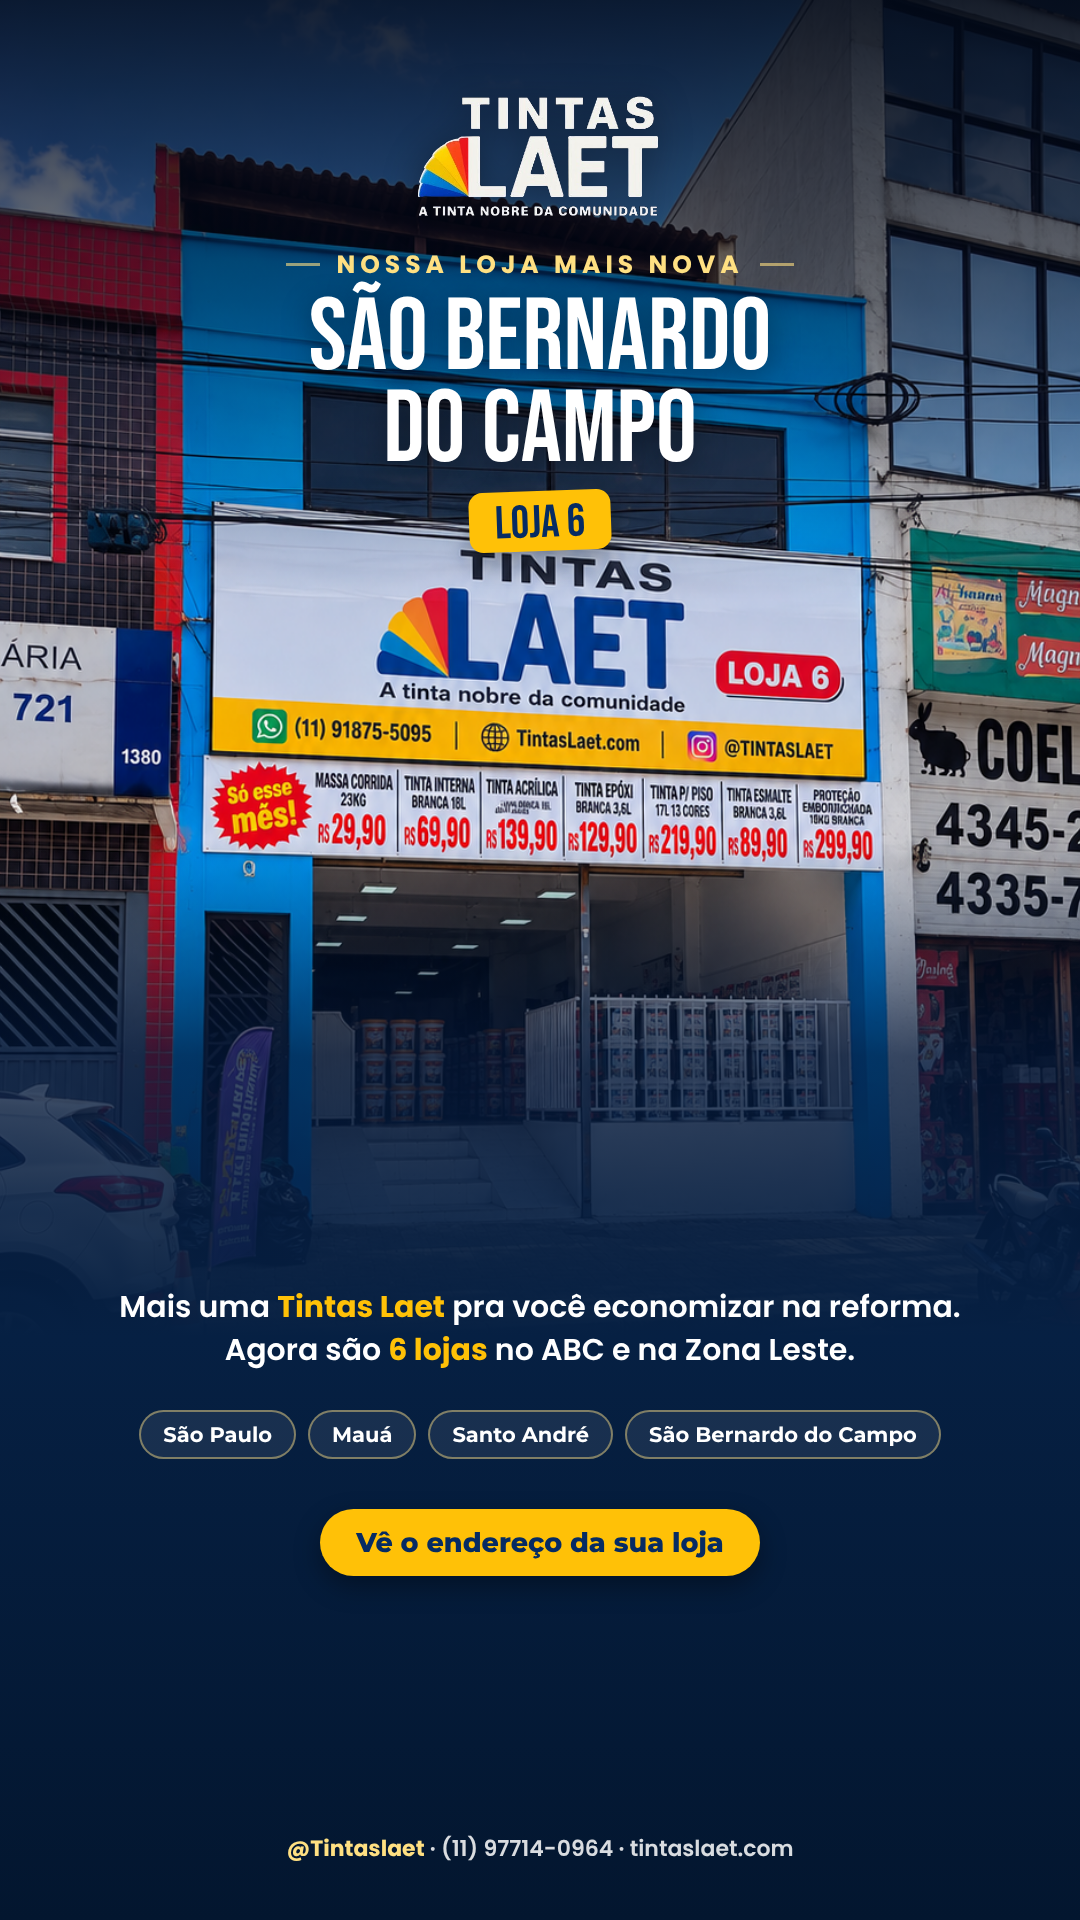
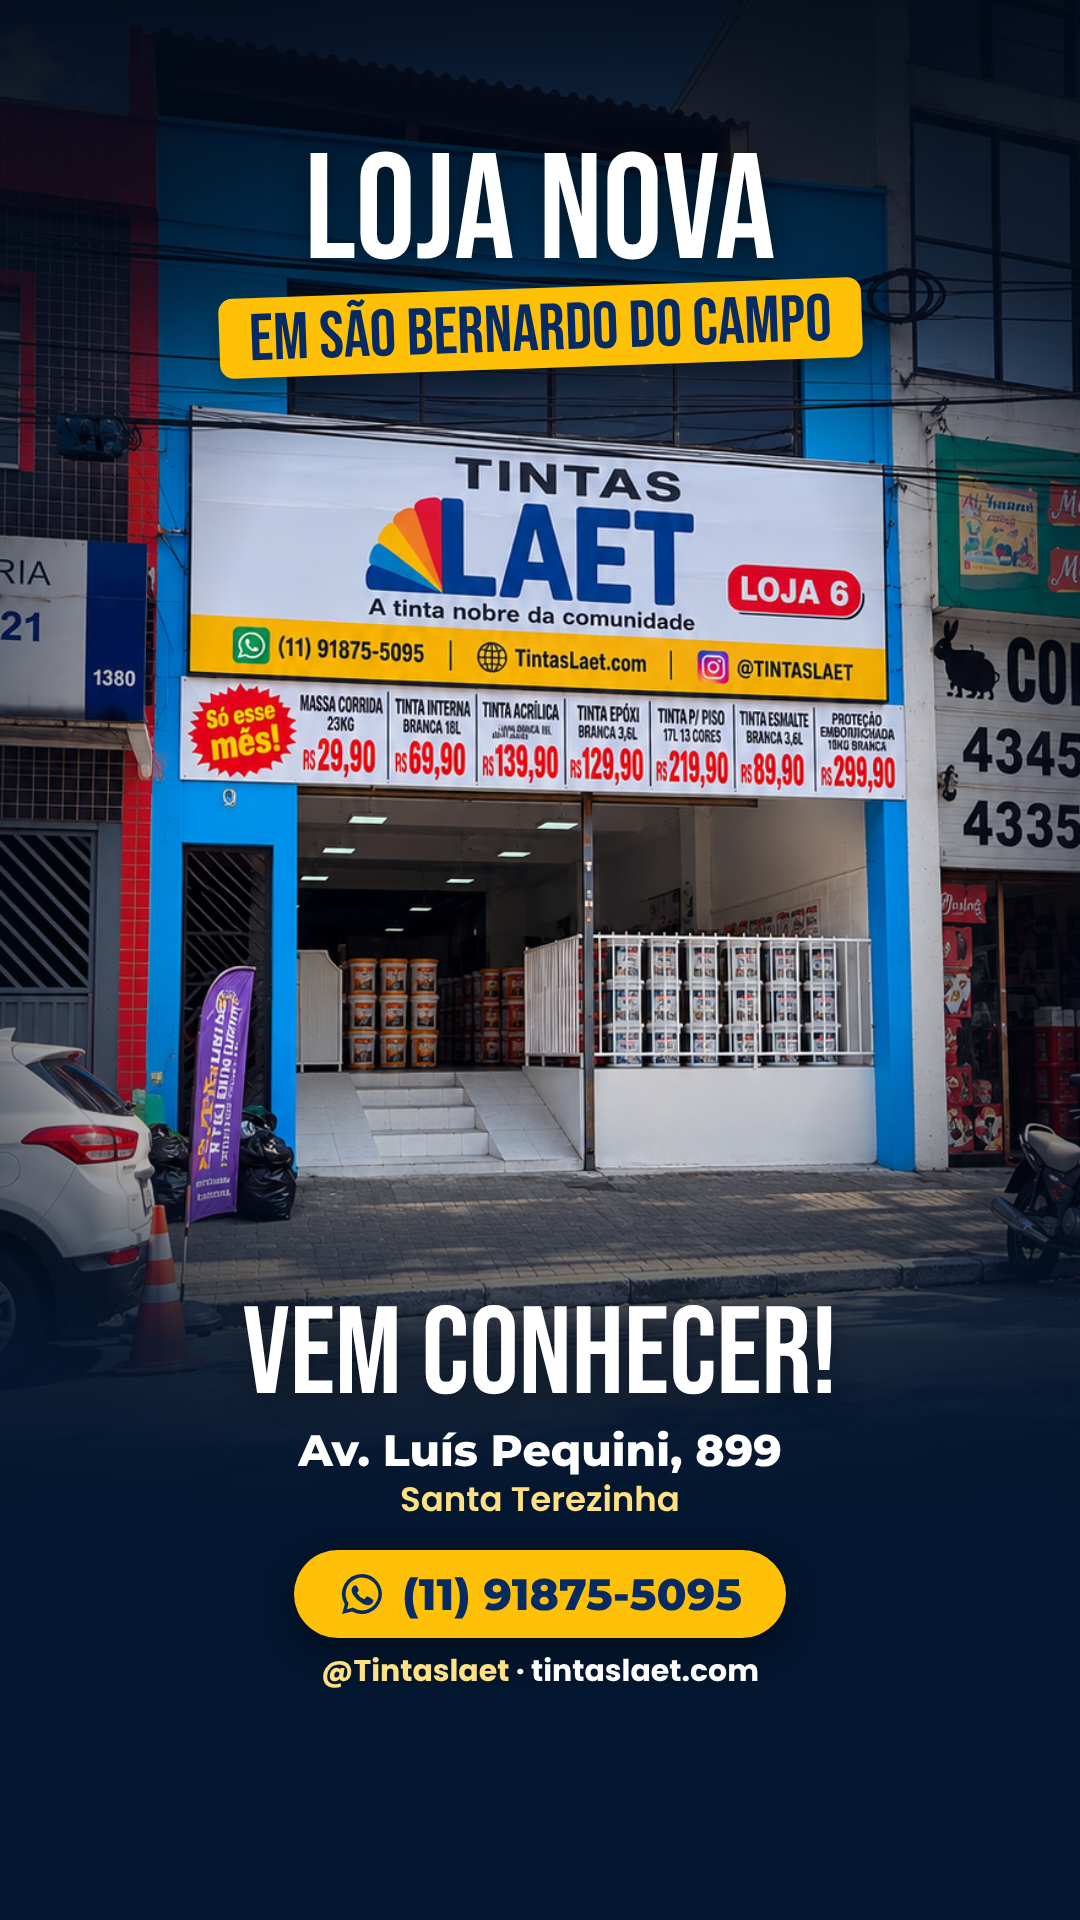
Refaz os 3 stories: menos elementos, texto grande, foco em venda
- Quem somos: "Preço abaixo do mercado e 12x sem juros*" sobre a foto da equipe
- Produto: troca o guia de 4 linhas por um só herói — Emborrachada
  ("Chega de infiltração", resolve até 100% na laje, telhado e muro)
- Loja 6: "Loja nova em São Bernardo do Campo" + endereço, com o
  WhatsApp da própria loja (regra do CTA pra peça de loja específica)
- CTA vira botão grande com o WhatsApp + @Tintaslaet e site embaixo,
  tudo dentro da área segura do story (fora da barra de resposta)

Claude-Session: https://claude.ai/code/session_01SY9PCVFHwTAXLNRiFEi1A7

diff --git a/marketing/stories/2026-10/16-nossas-lojas/story.html b/marketing/stories/2026-10/16-nossas-lojas/story.html
@@ -3,7 +3,7 @@
 <head>
 <meta charset="UTF-8">
 <meta name="viewport" content="width=1080">
-<title>Tintas Laet — Nossas lojas</title>
+<title>Tintas Laet — Loja nova em São Bernardo do Campo</title>
 <style>
 @font-face { font-family:'Bebas Neue'; font-weight:400; src:url('fonts/bebas-neue-latin-400-normal.woff2') format('woff2'); }
 @font-face { font-family:'Montserrat'; font-weight:700; src:url('fonts/montserrat-latin-700-normal.woff2') format('woff2'); }
@@ -15,62 +15,49 @@
 body { background:#020A18; }
 .slide { width:1080px; height:1920px; position:relative; overflow:hidden; color:#fff; }
 
-.foto { position:absolute; inset:0; z-index:0; background:url('../../../../marketing/imagem das lojas/loja6 fachada.png') center 30% / cover no-repeat; }
-.scrim-top { position:absolute; top:0; left:0; right:0; height:600px; z-index:1;
-  background:linear-gradient(180deg, rgba(2,10,24,.88) 0%, rgba(2,10,24,.5) 50%, rgba(2,10,24,0) 100%); }
-.scrim-bot { position:absolute; bottom:0; left:0; right:0; height:1080px; z-index:1;
-  background:linear-gradient(180deg, rgba(2,10,24,0) 0%, rgba(3,24,58,.75) 20%, #062043 46%, #03162f 100%); }
+.foto { position:absolute; inset:0; z-index:0; background:url('../../../../marketing/imagem das lojas/loja6 fachada.png') center -130px / auto 2050px no-repeat; }
+.vinheta { position:absolute; inset:0; z-index:1;
+  background:radial-gradient(ellipse 620px 900px at 50% 42%, rgba(2,10,24,0) 55%, rgba(2,10,24,.6) 100%); }
+.scrim-top { position:absolute; top:0; left:0; right:0; height:470px; z-index:1;
+  background:linear-gradient(180deg, rgba(2,10,24,.9) 0%, rgba(2,10,24,.65) 60%, rgba(2,10,24,0) 100%); }
+.scrim-bot { position:absolute; bottom:0; left:0; right:0; height:760px; z-index:1;
+  background:linear-gradient(180deg, rgba(3,22,47,0) 0%, rgba(3,22,47,.85) 24%, #03162f 46%, #03162f 100%); }
 
-.top { position:absolute; top:96px; left:0; right:0; z-index:10; display:flex; flex-direction:column; align-items:center; text-align:center; }
-.top img { height:260px; margin:-64px 0 -44px; object-fit:contain; filter:drop-shadow(0 4px 18px rgba(0,0,0,.4)); }
-.ey { font:700 25px/1 'Poppins',sans-serif; color:#FFE082; letter-spacing:.2em; text-transform:uppercase; display:flex; align-items:center; gap:16px; margin-top:4px; text-align:center; }
-.ey::before,.ey::after { content:''; width:34px; height:3px; background:rgba(255,224,130,.6); display:block; }
-.num { font:400 102px/.9 'Bebas Neue',sans-serif; color:#fff; margin-top:16px; text-shadow:0 8px 30px rgba(0,0,0,.4); text-align:center; padding:0 40px; }
-.chip { display:inline-flex; margin-top:14px; background:#FFC107; color:#062B63; font:400 46px/1 'Bebas Neue',sans-serif;
-  padding:10px 26px 4px; border-radius:14px; transform:rotate(-2deg); box-shadow:0 10px 26px rgba(0,0,0,.3); }
+.top { position:absolute; top:150px; left:0; right:0; z-index:10; display:flex; flex-direction:column; align-items:center; text-align:center; }
+.h1 { font:400 150px/.85 'Bebas Neue',sans-serif; color:#fff; text-shadow:0 8px 30px rgba(0,0,0,.5); }
+.chip { margin-top:10px; background:#FFC107; color:#062B63; font:400 66px/1 'Bebas Neue',sans-serif;
+  padding:10px 30px 4px; border-radius:14px; transform:rotate(-2deg); box-shadow:0 10px 26px rgba(0,0,0,.35); }
 
-.corpo { position:absolute; left:0; right:0; bottom:0; top:900px; z-index:10; display:flex; flex-direction:column; align-items:center; justify-content:center; text-align:center; padding:0 72px; }
-.msg { font:600 30px/1.45 'Poppins',sans-serif; margin-top:40px; }
-.msg b { color:#FFC107; font-weight:700; }
-
-.cidades { display:flex; flex-wrap:wrap; justify-content:center; gap:12px; margin-top:38px; }
-.cid { background:rgba(255,255,255,.08); border:2px solid rgba(255,224,130,.45); border-radius:30px; padding:12px 22px;
-  font:700 21px/1 'Montserrat',sans-serif; color:#fff; }
-
-.cta { margin-top:50px; white-space:nowrap; background:#FFC107; color:#062B63; font:800 27px/1 'Montserrat',sans-serif;
-  padding:20px 36px; border-radius:40px; box-shadow:0 10px 26px rgba(0,0,0,.35); }
-.foot { position:absolute; left:0; right:0; bottom:60px; z-index:10; text-align:center;
-  font:600 22px/1 'Poppins',sans-serif; color:rgba(255,255,255,.85); }
-.foot b { color:#FFE082; font-weight:700; }
+.base { position:absolute; left:0; right:0; top:1300px; z-index:10; display:flex; flex-direction:column; align-items:center; text-align:center; }
+.vem { font:400 124px/.9 'Bebas Neue',sans-serif; color:#fff; text-shadow:0 8px 30px rgba(0,0,0,.4); }
+.end { margin-top:14px; font:800 44px/1.1 'Montserrat',sans-serif; color:#fff; }
+.bairro { margin-top:8px; font:600 34px/1 'Poppins',sans-serif; color:#FFE082; }
+.btn { margin-top:34px; display:flex; align-items:center; gap:16px; background:#FFC107; color:#062B63;
+  font:800 44px/1 'Montserrat',sans-serif; padding:20px 44px; border-radius:60px; box-shadow:0 12px 30px rgba(0,0,0,.4); }
+.btn svg { width:48px; height:48px; fill:#062B63; }
+.sub { margin-top:18px; font:700 30px/1 'Poppins',sans-serif; color:#fff; }
+.sub b { color:#FFE082; }
 </style>
 </head>
 <body>
 <div class="slide">
   <div class="foto"></div>
+  <div class="vinheta"></div>
   <div class="scrim-top"></div>
   <div class="scrim-bot"></div>
 
   <div class="top">
-    <img src="../../../../identidade/logotipo branco-remove-bg-io.png" alt="Tintas Laet">
-    <div class="ey">Nossa loja mais nova</div>
-    <div class="num">SÃO BERNARDO<br>DO CAMPO</div>
-    <div class="chip">LOJA 6</div>
+    <div class="h1">LOJA NOVA</div>
+    <div class="chip">EM SÃO BERNARDO DO CAMPO</div>
   </div>
 
-  <div class="corpo">
-    <div class="msg">Mais uma <b>Tintas Laet</b> pra você economizar na reforma.<br>Agora são <b>6 lojas</b> no ABC e na Zona Leste.</div>
-
-    <div class="cidades">
-      <div class="cid">São Paulo</div>
-      <div class="cid">Mauá</div>
-      <div class="cid">Santo André</div>
-      <div class="cid">São Bernardo do Campo</div>
-    </div>
-
-    <div class="cta">Vê o endereço da sua loja</div>
+  <div class="base">
+    <div class="vem">VEM CONHECER!</div>
+    <div class="end">Av. Luís Pequini, 899</div>
+    <div class="bairro">Santa Terezinha</div>
+    <div class="btn"><svg viewBox="0 0 24 24"><path d="M12 2a10 10 0 0 0-8.6 15.1L2 22l5-1.3A10 10 0 1 0 12 2zm0 18.2a8.2 8.2 0 0 1-4.2-1.2l-.3-.2-3 .8.8-2.9-.2-.3A8.2 8.2 0 1 1 12 20.2zm4.5-6.1c-.2-.1-1.5-.7-1.7-.8-.2-.1-.4-.1-.6.1l-.8 1c-.1.2-.3.2-.5.1a6.7 6.7 0 0 1-3.3-2.9c-.2-.4.2-.4.7-1.3.1-.2 0-.3 0-.4l-.8-1.8c-.2-.5-.4-.4-.6-.4h-.5a1 1 0 0 0-.7.3 3 3 0 0 0-.9 2.2 5.1 5.1 0 0 0 1.1 2.7 11.7 11.7 0 0 0 4.5 4c1.7.7 2.3.8 3.2.6a2.7 2.7 0 0 0 1.8-1.3 2.2 2.2 0 0 0 .2-1.3c-.1-.1-.3-.2-.5-.3z"/></svg>(11) 91875-5095</div>
+    <div class="sub"><b>@Tintaslaet</b> · tintaslaet.com</div>
   </div>
-
-  <div class="foot"><b>@Tintaslaet</b> · (11) 97714-0964 · tintaslaet.com</div>
 </div>
 </body>
 </html>

diff --git a/marketing/stories/2026-10/16-quem-somos/story.html b/marketing/stories/2026-10/16-quem-somos/story.html
@@ -15,34 +15,27 @@
 body { background:#020A18; }
 .slide { width:1080px; height:1920px; position:relative; overflow:hidden; color:#fff; }
 
-.foto { position:absolute; inset:0; z-index:0; background:url('../../../../marketing/prova social/equipe tintas laet.jpg') center 18% / cover no-repeat; }
-.scrim-top { position:absolute; top:0; left:0; right:0; height:620px; z-index:1;
-  background:linear-gradient(180deg, rgba(2,10,24,.88) 0%, rgba(2,10,24,.55) 48%, rgba(2,10,24,0) 100%); }
-.scrim-bot { position:absolute; bottom:0; left:0; right:0; height:1180px; z-index:1;
-  background:linear-gradient(180deg, rgba(2,10,24,0) 0%, rgba(3,24,58,.72) 22%, #062043 48%, #03162f 100%); }
+.foto { position:absolute; inset:0; z-index:0; background:url('../../../../marketing/prova social/equipe tintas laet.jpg') center -60px / 1080px auto no-repeat; }
+.scrim-top { position:absolute; top:0; left:0; right:0; height:420px; z-index:1;
+  background:linear-gradient(180deg, rgba(2,10,24,.8) 0%, rgba(2,10,24,.35) 60%, rgba(2,10,24,0) 100%); }
+.scrim-bot { position:absolute; bottom:0; left:0; right:0; height:1060px; z-index:1;
+  background:linear-gradient(180deg, rgba(3,22,47,0) 0%, rgba(3,22,47,.82) 20%, #041d3f 34%, #03162f 100%); }
 
-.top { position:absolute; top:96px; left:0; right:0; z-index:10; display:flex; flex-direction:column; align-items:center; text-align:center; }
-.top img { height:270px; margin:-66px 0 -46px; object-fit:contain; filter:drop-shadow(0 4px 18px rgba(0,0,0,.4)); }
-.ey { font:700 27px/1 'Poppins',sans-serif; color:#FFE082; letter-spacing:.24em; text-transform:uppercase; display:flex; align-items:center; gap:18px; margin-top:4px; }
-.ey::before,.ey::after { content:''; width:44px; height:3px; background:rgba(255,224,130,.6); display:block; }
-.num { font:400 198px/.86 'Bebas Neue',sans-serif; color:#fff; margin-top:18px; text-shadow:0 10px 40px rgba(0,0,0,.4); }
+.logo { position:absolute; top:96px; left:0; right:0; z-index:10; text-align:center; }
+.logo img { height:320px; margin:-80px 0 -60px; object-fit:contain; filter:drop-shadow(0 4px 18px rgba(0,0,0,.45)); }
 
-.corpo { position:absolute; left:0; right:0; bottom:0; top:860px; z-index:10; display:flex; flex-direction:column; align-items:center; justify-content:center; text-align:center; padding:0 80px; }
-.msg { font:600 32px/1.45 'Poppins',sans-serif; margin-top:46px; }
-.msg b { color:#FFC107; font-weight:700; }
+.base { position:absolute; left:0; right:0; top:1068px; z-index:10; display:flex; flex-direction:column; align-items:center; text-align:center; }
+.ey { font:700 31px/1 'Poppins',sans-serif; color:#FFE082; letter-spacing:.14em; text-transform:uppercase; }
+.h1 { font:400 152px/.88 'Bebas Neue',sans-serif; color:#fff; margin-top:22px; text-shadow:0 8px 30px rgba(0,0,0,.4); }
+.chip { margin-top:22px; background:#FFC107; color:#062B63; font:400 84px/1 'Bebas Neue',sans-serif;
+  padding:12px 34px 4px; border-radius:16px; transform:rotate(-2deg); box-shadow:0 10px 30px rgba(0,0,0,.35); }
 
-.fatos { display:flex; gap:16px; margin-top:52px; }
-.fato { background:rgba(255,255,255,.08); border:2px solid rgba(255,224,130,.5); border-radius:16px; padding:20px 22px 14px; flex:1; }
-.fato .n { font:400 54px/.9 'Bebas Neue',sans-serif; color:#FFC107; }
-.fato .l { font:700 19px/1.2 'Montserrat',sans-serif; color:#fff; margin-top:8px; text-transform:uppercase; letter-spacing:.02em; }
-
-.nota { font:600 20px/1.3 'Poppins',sans-serif; color:rgba(255,255,255,.65); margin-top:18px; }
-
-.cta { margin-top:56px; white-space:nowrap; background:#FFC107; color:#062B63; font:800 28px/1 'Montserrat',sans-serif;
-  padding:20px 38px; border-radius:40px; box-shadow:0 10px 26px rgba(0,0,0,.35); }
-.foot { position:absolute; left:0; right:0; bottom:64px; z-index:10; text-align:center;
-  font:600 23px/1 'Poppins',sans-serif; color:rgba(255,255,255,.85); letter-spacing:.01em; }
-.foot b { color:#FFE082; font-weight:700; }
+.btn { margin-top:34px; display:flex; align-items:center; gap:16px; background:#FFC107; color:#062B63;
+  font:800 44px/1 'Montserrat',sans-serif; padding:20px 44px; border-radius:60px; box-shadow:0 12px 30px rgba(0,0,0,.4); }
+.btn svg { width:48px; height:48px; fill:#062B63; }
+.sub { margin-top:18px; font:700 30px/1 'Poppins',sans-serif; color:#fff; }
+.sub b { color:#FFE082; }
+.nota { margin-top:14px; font:600 21px/1 'Poppins',sans-serif; color:rgba(255,255,255,.6); }
 </style>
 </head>
 <body>
@@ -51,26 +44,16 @@ body { background:#020A18; }
   <div class="scrim-top"></div>
   <div class="scrim-bot"></div>
 
-  <div class="top">
-    <img src="../../../../identidade/logotipo branco-remove-bg-io.png" alt="Tintas Laet">
-    <div class="ey">Quem somos</div>
-    <div class="num">LAET</div>
-  </div>
+  <div class="logo"><img src="../../../../identidade/logotipo branco-remove-bg-io.png" alt="Tintas Laet"></div>
 
-  <div class="corpo">
-    <div class="msg">Negócio de família, tocado por <b>Anderson e Robson Laet</b>.<br>6 lojas no ABC e na Zona Leste de São Paulo, pra quem quer economizar na reforma de verdade.</div>
-
-    <div class="fatos">
-      <div class="fato"><div class="n">6</div><div class="l">Lojas</div></div>
-      <div class="fato"><div class="n">12x</div><div class="l">Sem juros*</div></div>
-      <div class="fato"><div class="n">↓</div><div class="l">Preço de<br>mercado</div></div>
-    </div>
+  <div class="base">
+    <div class="ey">6 lojas no ABC e Zona Leste</div>
+    <div class="h1">PREÇO ABAIXO<br>DO MERCADO</div>
+    <div class="chip">E 12X SEM JUROS*</div>
+    <div class="btn"><svg viewBox="0 0 24 24"><path d="M12 2a10 10 0 0 0-8.6 15.1L2 22l5-1.3A10 10 0 1 0 12 2zm0 18.2a8.2 8.2 0 0 1-4.2-1.2l-.3-.2-3 .8.8-2.9-.2-.3A8.2 8.2 0 1 1 12 20.2zm4.5-6.1c-.2-.1-1.5-.7-1.7-.8-.2-.1-.4-.1-.6.1l-.8 1c-.1.2-.3.2-.5.1a6.7 6.7 0 0 1-3.3-2.9c-.2-.4.2-.4.7-1.3.1-.2 0-.3 0-.4l-.8-1.8c-.2-.5-.4-.4-.6-.4h-.5a1 1 0 0 0-.7.3 3 3 0 0 0-.9 2.2 5.1 5.1 0 0 0 1.1 2.7 11.7 11.7 0 0 0 4.5 4c1.7.7 2.3.8 3.2.6a2.7 2.7 0 0 0 1.8-1.3 2.2 2.2 0 0 0 .2-1.3c-.1-.1-.3-.2-.5-.3z"/></svg>(11) 97714-0964</div>
+    <div class="sub"><b>@Tintaslaet</b> · tintaslaet.com</div>
     <div class="nota">*consulte as condições</div>
-
-    <div class="cta">Vem conhecer a Laet</div>
   </div>
-
-  <div class="foot"><b>@Tintaslaet</b> · (11) 97714-0964 · tintaslaet.com</div>
 </div>
 </body>
 </html>

diff --git a/marketing/stories/2026-10/16-emborrachada/story.html b/marketing/stories/2026-10/16-emborrachada/story.html
@@ -1,0 +1,68 @@
+<!DOCTYPE html>
+<html lang="pt-BR">
+<head>
+<meta charset="UTF-8">
+<meta name="viewport" content="width=1080">
+<title>Tintas Laet — Chega de infiltração</title>
+<style>
+@font-face { font-family:'Bebas Neue'; font-weight:400; src:url('fonts/bebas-neue-latin-400-normal.woff2') format('woff2'); }
+@font-face { font-family:'Montserrat'; font-weight:700; src:url('fonts/montserrat-latin-700-normal.woff2') format('woff2'); }
+@font-face { font-family:'Montserrat'; font-weight:800; src:url('fonts/montserrat-latin-800-normal.woff2') format('woff2'); }
+@font-face { font-family:'Poppins'; font-weight:600; src:url('fonts/poppins-latin-600-normal.woff2') format('woff2'); }
+@font-face { font-family:'Poppins'; font-weight:700; src:url('fonts/poppins-latin-700-normal.woff2') format('woff2'); }
+
+*, *::before, *::after { margin:0; padding:0; box-sizing:border-box; }
+body { background:#020A18; }
+.slide { width:1080px; height:1920px; position:relative; overflow:hidden; color:#fff;
+  background:
+    radial-gradient(ellipse 900px 620px at 50% 22%, rgba(33,110,230,.55) 0%, rgba(13,71,161,0) 70%),
+    linear-gradient(180deg, #0D47A1 0%, #0A3A86 36%, #062B63 68%, #03183A 100%); }
+.chuva { position:absolute; inset:0; z-index:1; opacity:.5;
+  background-image: repeating-linear-gradient(104deg, rgba(255,255,255,.10) 0 2px, transparent 2px 38px);
+  -webkit-mask-image: linear-gradient(180deg, #000 0%, rgba(0,0,0,.4) 40%, transparent 70%);
+          mask-image: linear-gradient(180deg, #000 0%, rgba(0,0,0,.4) 40%, transparent 70%); }
+
+.top { position:absolute; top:150px; left:0; right:0; z-index:10; display:flex; flex-direction:column; align-items:center; text-align:center; }
+.top img { height:300px; margin:-74px 0 -55px; object-fit:contain; filter:drop-shadow(0 4px 18px rgba(0,0,0,.35)); }
+.ey { font:700 34px/1 'Poppins',sans-serif; color:#FFE082; letter-spacing:.12em; text-transform:uppercase; margin-top:14px; }
+.h1 { font:400 196px/.85 'Bebas Neue',sans-serif; color:#fff; margin-top:16px; text-shadow:0 10px 40px rgba(0,0,0,.35); }
+.chip { margin-top:6px; background:#FFC107; color:#062B63; font:400 124px/1 'Bebas Neue',sans-serif;
+  padding:14px 36px 4px; border-radius:18px; transform:rotate(-2deg); box-shadow:0 12px 32px rgba(0,0,0,.35); }
+
+.lata { position:absolute; left:50%; top:748px; transform:translateX(-50%); z-index:6; height:640px; filter:drop-shadow(0 26px 34px rgba(0,0,0,.55)); }
+.glow { position:absolute; left:50%; top:1068px; width:800px; height:800px; transform:translate(-50%,-50%); z-index:5; border-radius:50%;
+  background:radial-gradient(circle, rgba(255,193,7,.30) 0%, rgba(255,193,7,0) 65%); }
+
+.base { position:absolute; left:0; right:0; top:1416px; z-index:10; display:flex; flex-direction:column; align-items:center; text-align:center; }
+.nm { font:800 56px/1 'Montserrat',sans-serif; color:#fff; }
+.ds { font:600 36px/1.25 'Poppins',sans-serif; color:#FFE082; margin-top:12px; }
+.btn { margin-top:34px; display:flex; align-items:center; gap:16px; background:#FFC107; color:#062B63;
+  font:800 44px/1 'Montserrat',sans-serif; padding:20px 44px; border-radius:60px; box-shadow:0 12px 30px rgba(0,0,0,.4); }
+.btn svg { width:48px; height:48px; fill:#062B63; }
+.sub { margin-top:18px; font:700 30px/1 'Poppins',sans-serif; color:#fff; }
+.sub b { color:#FFE082; }
+</style>
+</head>
+<body>
+<div class="slide">
+  <div class="chuva"></div>
+
+  <div class="top">
+    <img src="../../../../identidade/logotipo branco-remove-bg-io.png" alt="Tintas Laet">
+    <div class="ey">Chuva chegando?</div>
+    <div class="h1">CHEGA DE</div>
+    <div class="chip">INFILTRAÇÃO</div>
+  </div>
+
+  <div class="glow"></div>
+  <img class="lata" src="../../../../identidade/embalagens/emborrachada-remove-bg-io.png" alt="Emborrachada Laet 18L">
+
+  <div class="base">
+    <div class="nm">Emborrachada Laet</div>
+    <div class="ds">Resolve até 100% na laje, telhado e muro</div>
+    <div class="btn"><svg viewBox="0 0 24 24"><path d="M12 2a10 10 0 0 0-8.6 15.1L2 22l5-1.3A10 10 0 1 0 12 2zm0 18.2a8.2 8.2 0 0 1-4.2-1.2l-.3-.2-3 .8.8-2.9-.2-.3A8.2 8.2 0 1 1 12 20.2zm4.5-6.1c-.2-.1-1.5-.7-1.7-.8-.2-.1-.4-.1-.6.1l-.8 1c-.1.2-.3.2-.5.1a6.7 6.7 0 0 1-3.3-2.9c-.2-.4.2-.4.7-1.3.1-.2 0-.3 0-.4l-.8-1.8c-.2-.5-.4-.4-.6-.4h-.5a1 1 0 0 0-.7.3 3 3 0 0 0-.9 2.2 5.1 5.1 0 0 0 1.1 2.7 11.7 11.7 0 0 0 4.5 4c1.7.7 2.3.8 3.2.6a2.7 2.7 0 0 0 1.8-1.3 2.2 2.2 0 0 0 .2-1.3c-.1-.1-.3-.2-.5-.3z"/></svg>(11) 97714-0964</div>
+    <div class="sub"><b>@Tintaslaet</b> · tintaslaet.com</div>
+  </div>
+</div>
+</body>
+</html>
